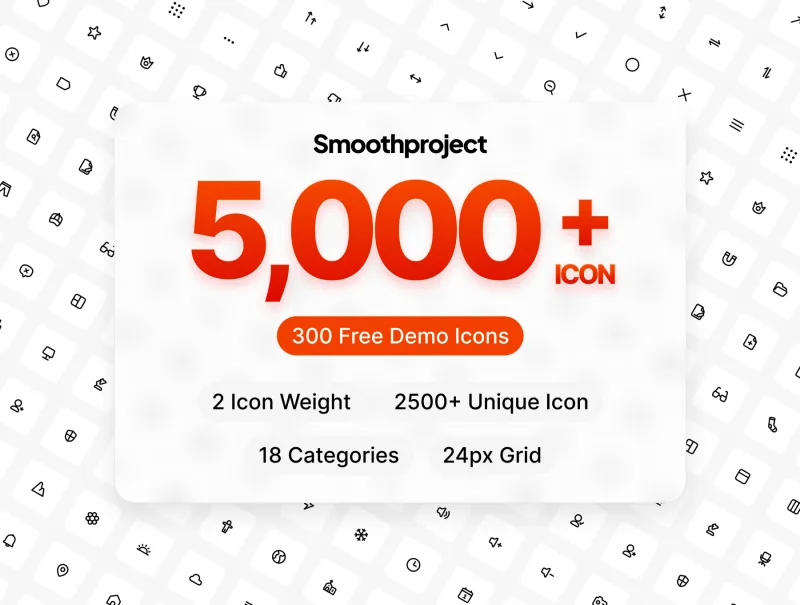
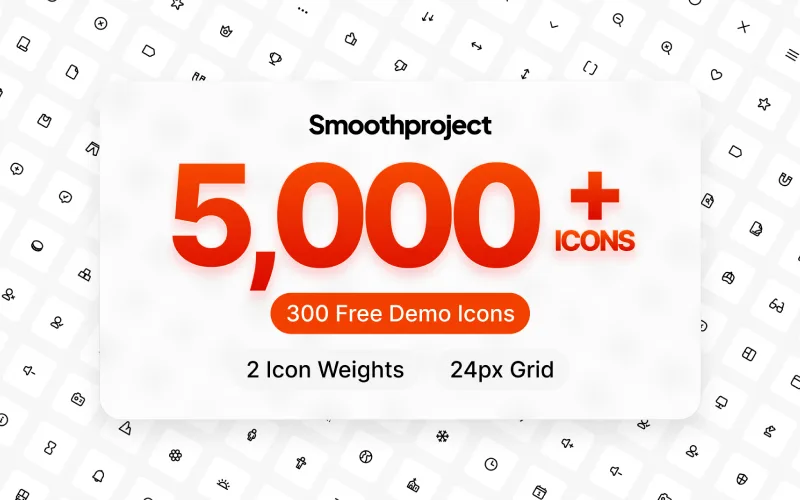
Update side-project images to webp, rename project 2
- Convert project 1/2/3 images to webp; add project-2.webp
- Rename side project 2 to "QA Feedback Card and Note" per Figma

diff --git a/src/data/portfolioData.js b/src/data/portfolioData.js
@@ -552,7 +552,7 @@ export const sideProjectsData = [
     source: 'Figma Community',
   },
   {
-    title: 'Side Project Two',
+    title: 'QA Feedback Card and Note',
     image: '/assets/side-projects/project-2.webp',
     url: 'https://www.figma.com/community/file/1434434874778116780',
     source: 'Figma Community',